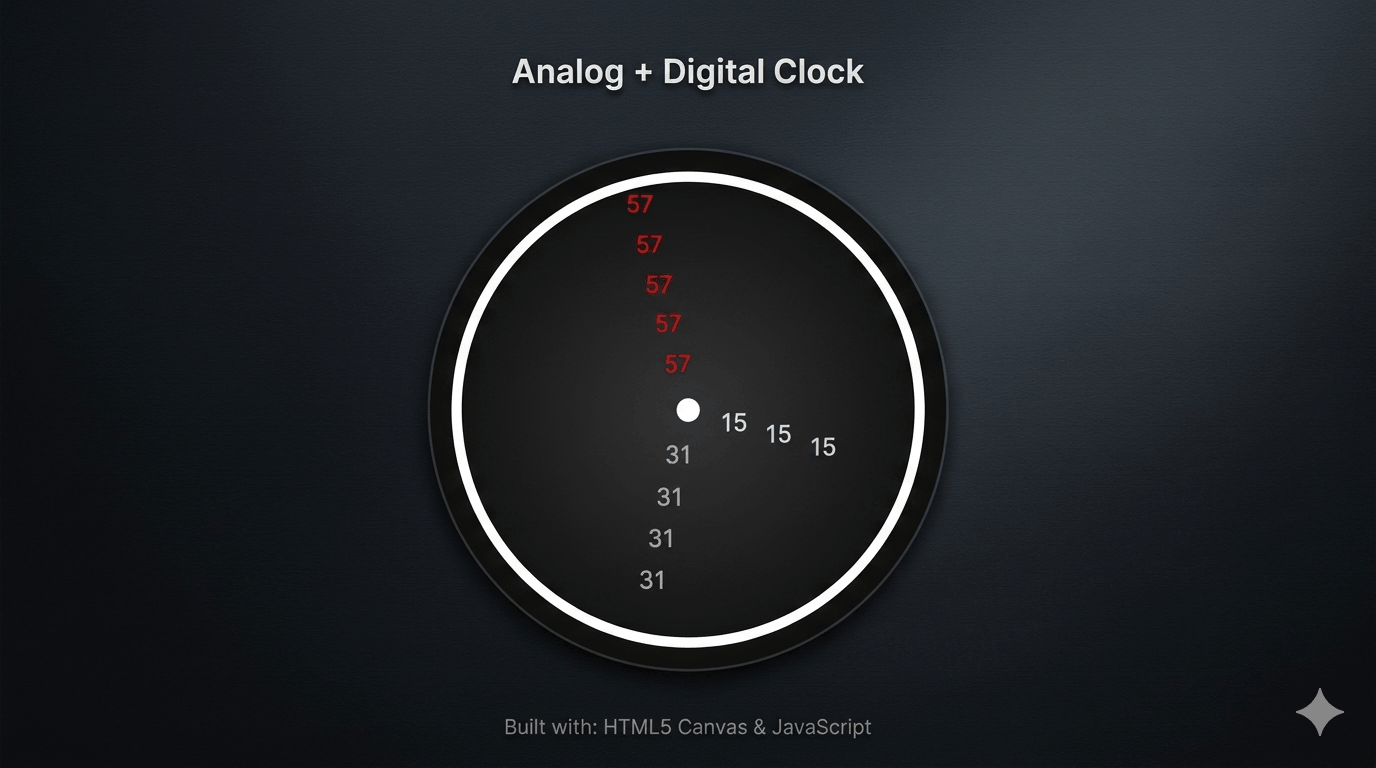
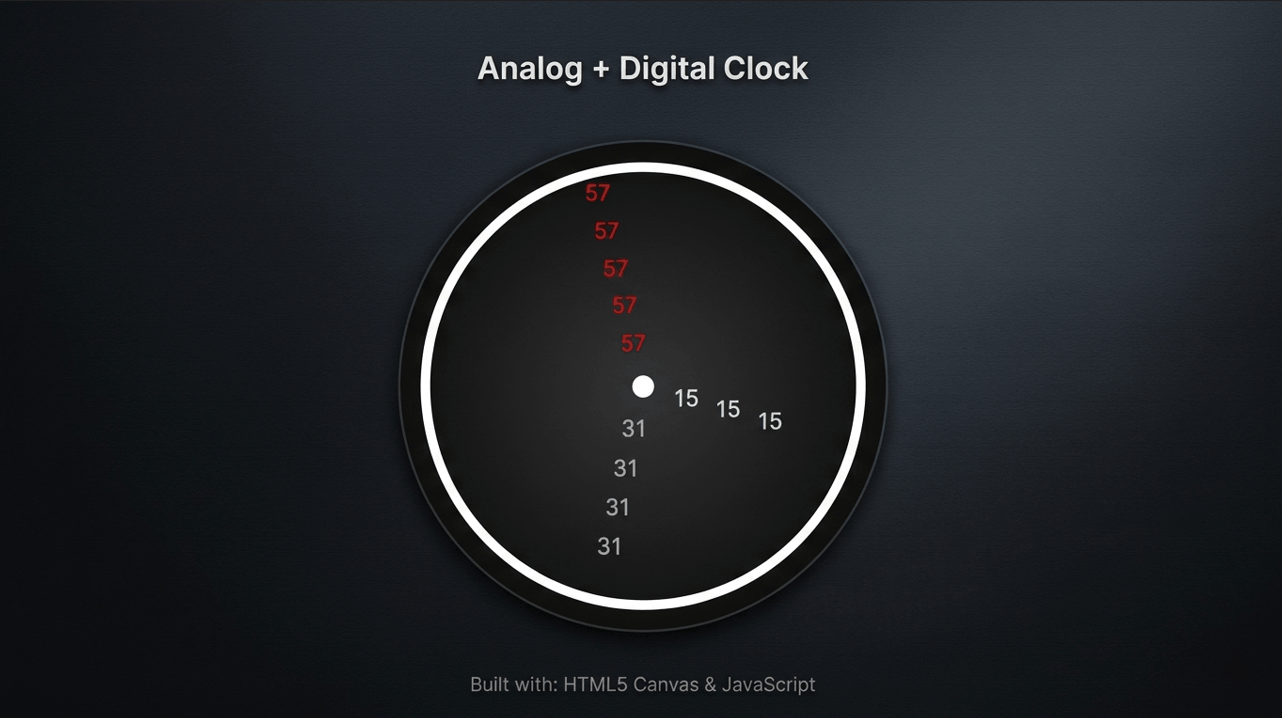
Updates

diff --git a/index.html b/index.html
@@ -33,7 +33,7 @@
   <link rel="preconnect" href="https://fonts.googleapis.com">
   <link rel="preconnect" href="https://fonts.gstatic.com" crossorigin>
   <link href="https://fonts.googleapis.com/css2?family=Inter:wght@400;500;600;700;800&display=swap" rel="stylesheet">
-  <script type="module" crossorigin src="/Portfolio/assets/index-BcFAmrSf.js"></script>
+  <script type="module" crossorigin src="/Portfolio/assets/index-DKpElb60.js"></script>
   <link rel="stylesheet" crossorigin href="/Portfolio/assets/index-D54897R7.css">
 </head>
 